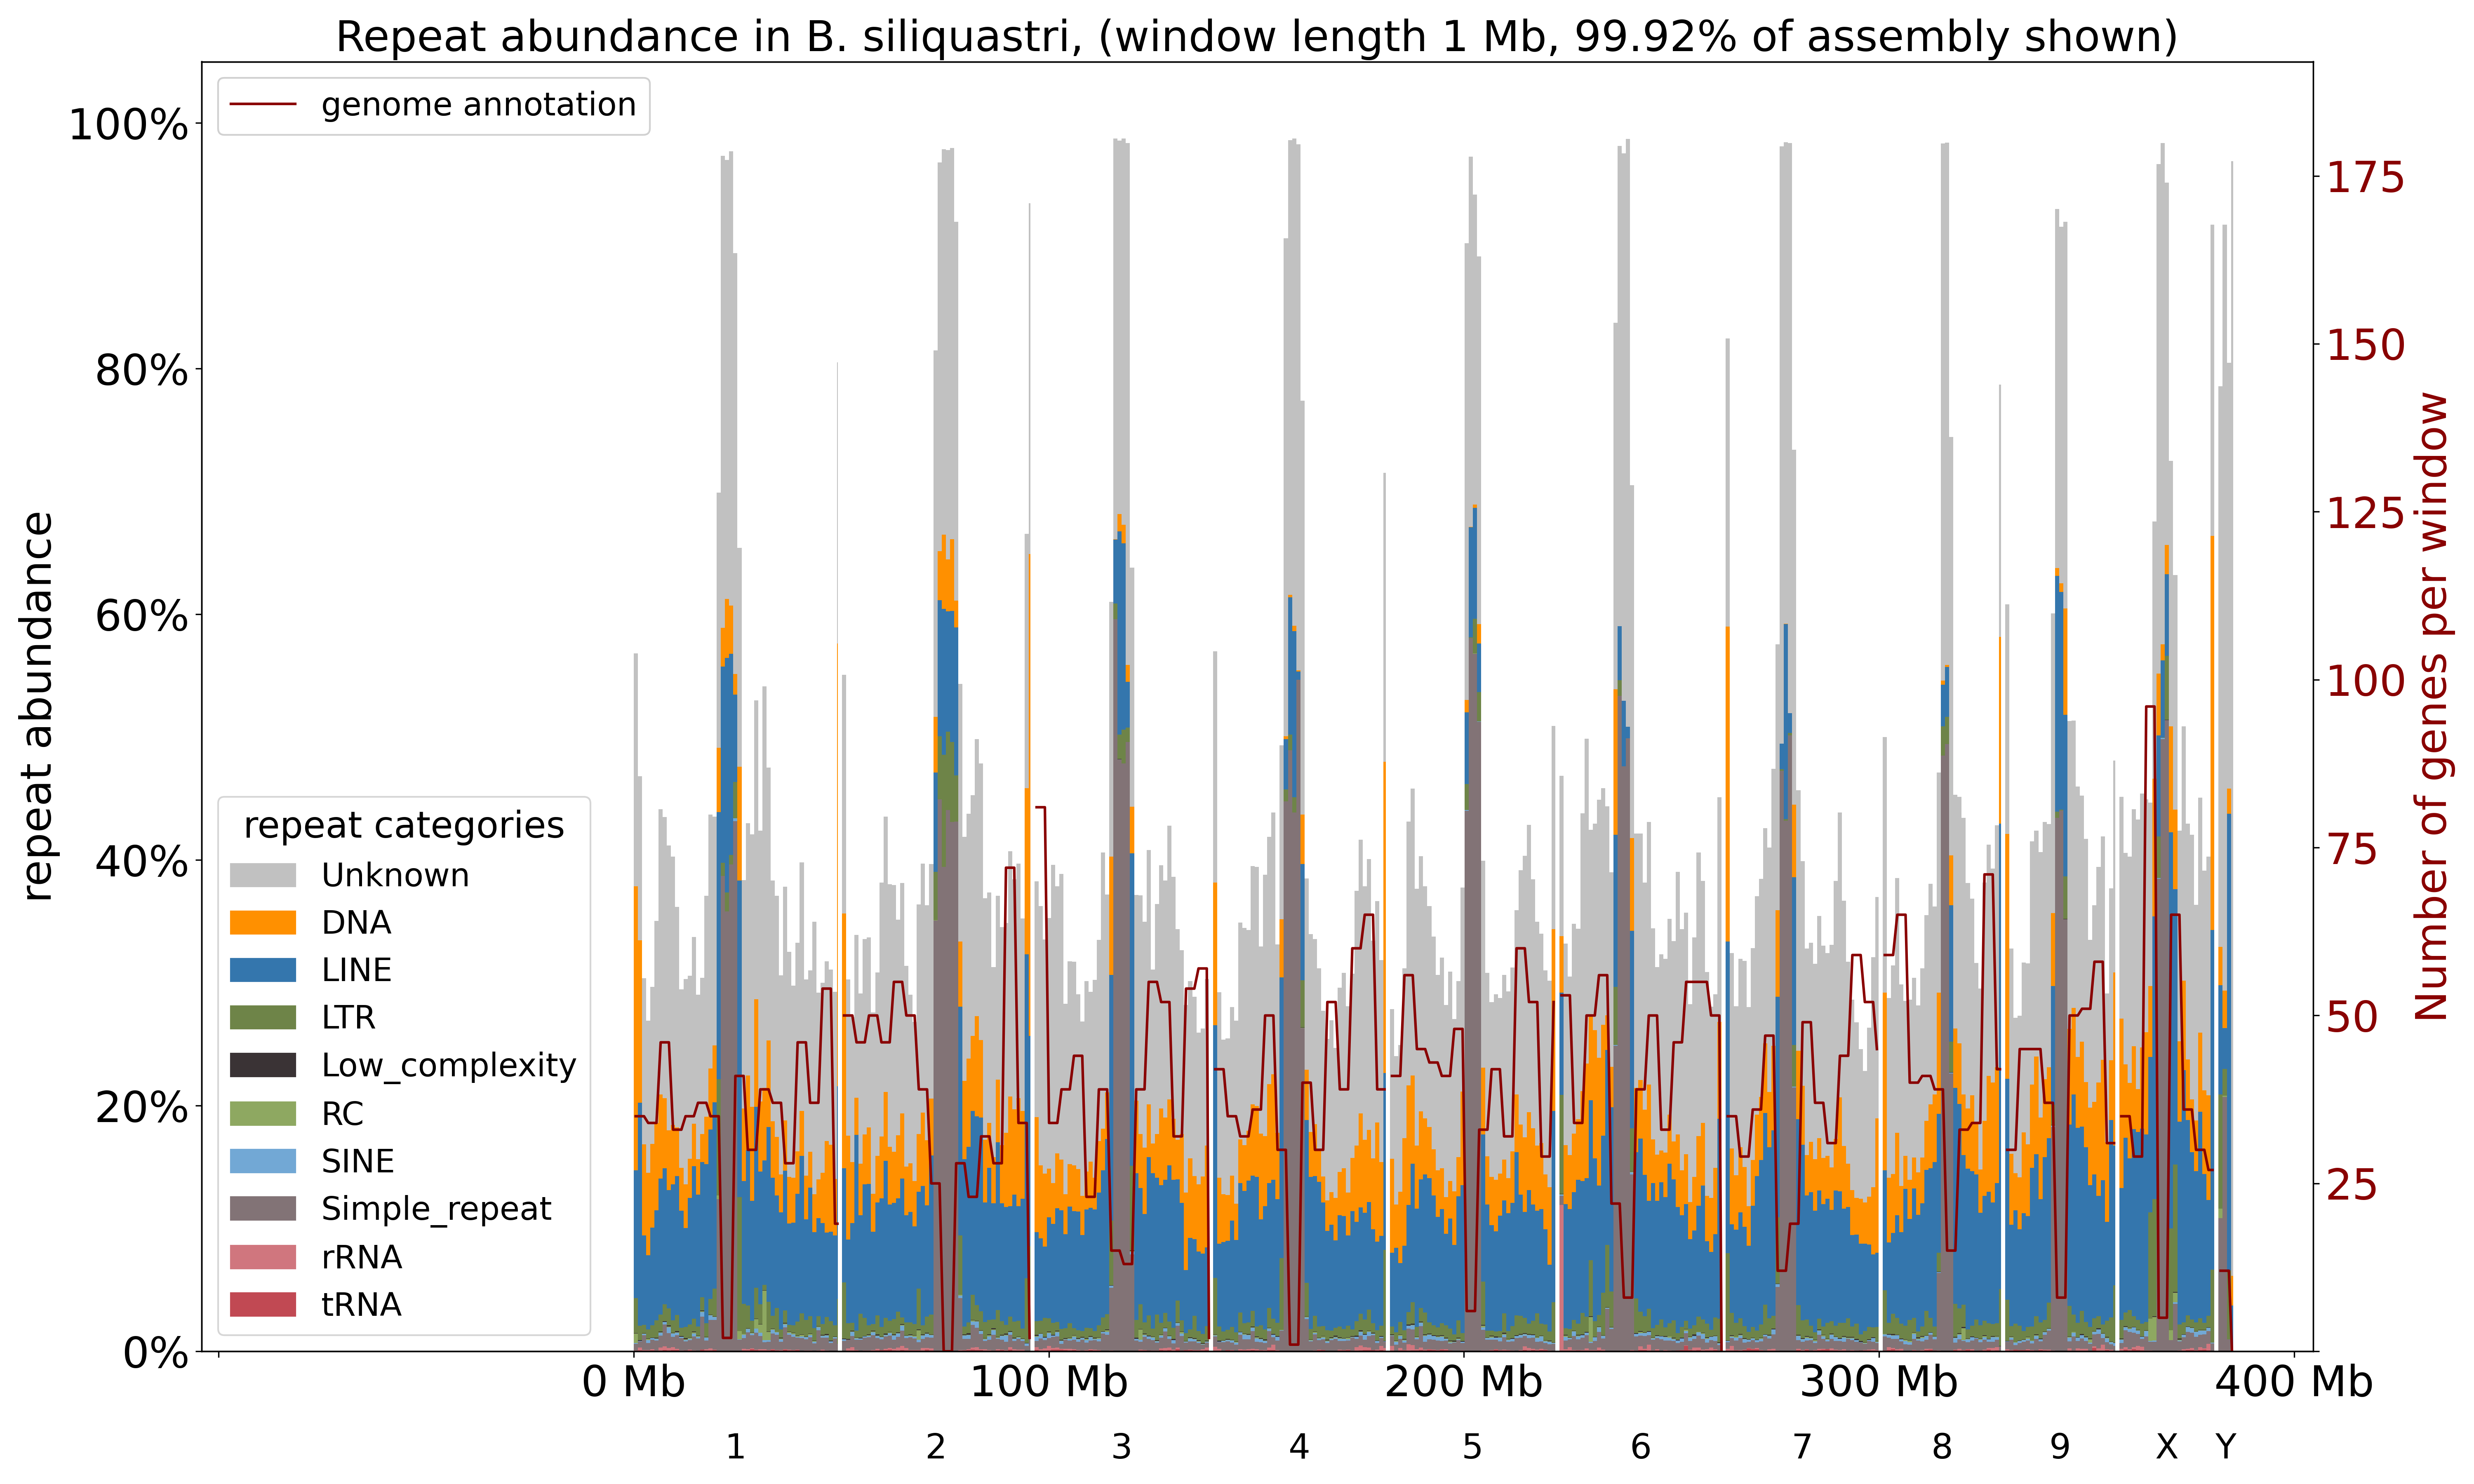
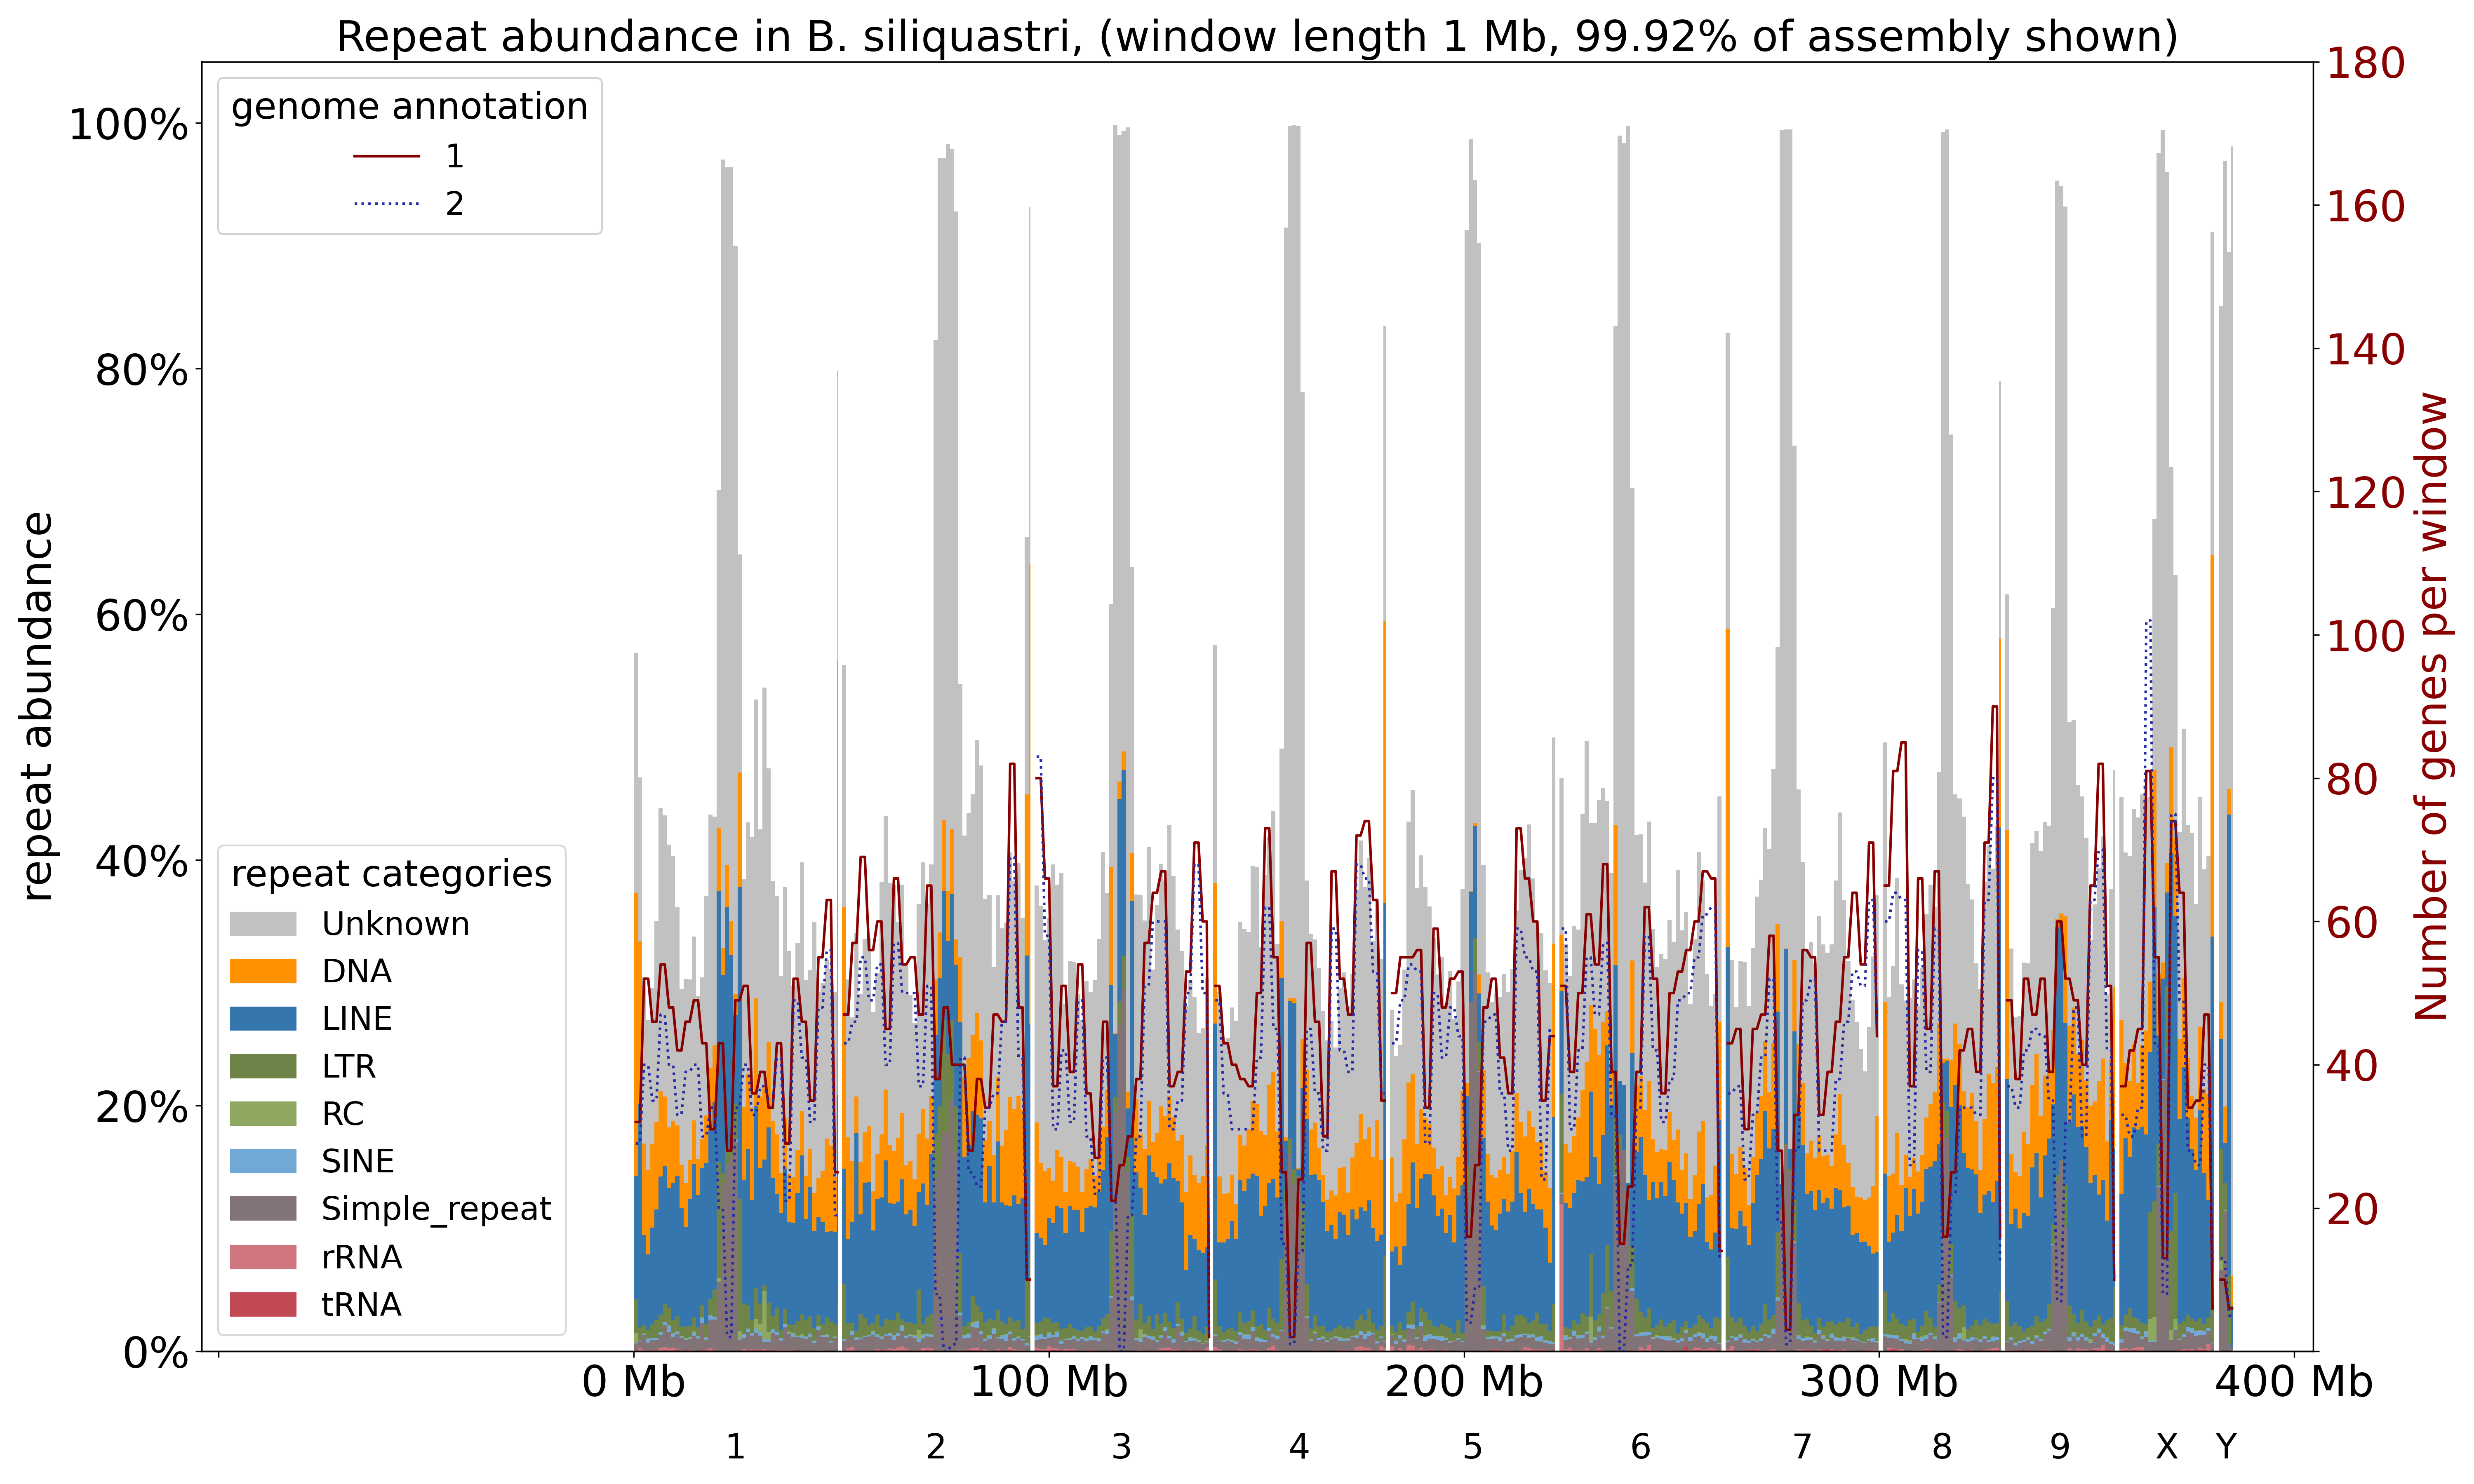
update documentation

diff --git a/index.html b/index.html
@@ -14,7 +14,7 @@ body {
   line-height: 1.5;
   color: #24292f;
 }
-h1, h2, h3, h4, h5, h6 { margin-top: 1.6em; }
+h1, h2, h3, h4, h5, h6 { margin-top: 0.25em; }
 h1 { padding-bottom: .3em; }
 h2 { padding-bottom: .3em; } /* border-bottom: 1px solid #d0d7de; */
 code {
@@ -26,7 +26,7 @@ code {
 }
 pre {
   background: #f6f8fa;
-  padding: 1em;
+  padding: 0.25em;
   border-radius: 6px;
   overflow-x: auto;
 }
@@ -39,6 +39,22 @@ details { margin: 0.8em 0; }
 summary { cursor: pointer; }
 iframe { border: 1px solid #d0d7de; border-radius: 4px; }
 a { color: #343f4d; }
+
+ul {
+  /* user-agent styles */
+  display: block;
+  list-style-type: disc;
+  margin-block-start: 0em;
+  margin-block-end: 0em;
+  padding-inline-start: 40px;
+}
+ol {
+  /* user-agent styles */
+  display: block;
+  margin-block-start: 0em;
+  margin-block-end: 0em;
+  padding-inline-start: 40px;
+}
 
 </style>
 <style>
@@ -117,7 +133,8 @@ a { color: #343f4d; }
 }
 #header-image{
     grid-area: header-image;
-    height: 12em
+    height: 12em;
+    background-color: #C2C8D6;
 }
 .center-content{
     display: grid;
@@ -148,7 +165,7 @@ a { color: #343f4d; }
     
 }
 h1{
-    padding-top:1.5em;
+    padding-top:0.5em;
     padding-bottom:0.5em
 }
 h2{
@@ -235,14 +252,19 @@ document.addEventListener("DOMContentLoaded", function () {
       });
     }
 </script>
+<script type="module">
+    import mermaid from 'https://cdn.jsdelivr.net/npm/mermaid@11/dist/mermaid.esm.min.mjs';
+    mermaid.initialize({ startOnLoad: true });
+</script>    
 
 
 </head>
 
 <body>
     <div id="outer-box">
-        <div id="header-image" class="center-content">
-            <h1>ReVis: (Re)peat (Vis)ualizer</h1>
+        <div id="header-image">
+            <h1 style="margin-top: 0em;font-size: 400%;padding-bottom: 0em;"  class="center-content">ReVis</h1>
+            <p style="font-size: 175%;"  class="center-content"><b>(Re)peat (Vis)ualizer</b></p>
         </div>
 
         <div id="sidebar-contents">
@@ -275,10 +297,231 @@ document.addEventListener("DOMContentLoaded", function () {
             </details>
             
             <p>
-                I suggest creating a new python virtual environment (this works similarly to conda) and installing the dependencies manually. 
+                If you are installing several dependencies manually, I suggest creating a new python virtual environment (this works similarly to conda). 
                 See tutorial <a href="https://www.w3schools.com/python/python_virtualenv.asp">here</a>.
             </p>
+
+            <h1>Summary</h1>
+
+            <p>
+                ReVis has two different run modes, a genome-wide mode that is purely for visualizing repeat abundance in a histogram across scaffolds, 
+                and a gene surroundings mode that includes statistical analysis to compare repeat abundance in the surroundings of two sets of genes.
+            </p>
+
+            <div class="tab">
+                <button class="tablinks" onclick="openTab(event, 'summary_genome_wide')">Genome-wide mode</button>
+                <button class="tablinks" onclick="openTab(event, 'summary_gene_surroundings')">Gene surroundings mode</button>
+            </div>
+
+            <div id="summary_genome_wide" class="tabcontent">
+                <p style="margin-top: .5em">
+                    A genome-wide stacked histogram showing repeat abundance as annotated by Repeatmasker. Optionally, one or two gene annotations of the same
+                    assembly can be included to show the gene density in the same windows.
+                </p>
+                <p>
+                    <img loading="lazy" src="example_data/repeat_abundance_with_gene_numbers_in_B_siliquastri.png" width="65%" />
+                </p>
+            </div>
             
+            <div id="summary_gene_surroundings" class="tabcontent">
+                <p style="margin-top: .5em">
+                    The user can provide a set of foreground and background gene IDs and an interval length in the transcript-surroundings mode. 
+                    The cumulative abundance of each repeat category is plotted for both foreground and background set for individual bases, not averaged over windows, 
+                    and statistical analysis is performed (see details below).
+                </p>
+                <p>
+                    <img loading="lazy" src="example_data/B_siliquastri_cumulative_repeat_presence_around_transcripts.png" width="65%" />
+                    <img loading="lazy" src="example_data/B_siliquastri_wilcoxon_summary.png" width="34%" />
+                </p>
+            </div>
+
+            <h1>Quick start</h1>
+
+
+            <div class="tab">
+                <button class="tablinks" onclick="openTab(event, 'quick_start_genome_wide')">Genome-wide mode</button>
+                <button class="tablinks" onclick="openTab(event, 'quick_start_gene_surroundings')">Gene surroundings mode</button>
+            </div>
+
+            <div id="quick_start_genome_wide" class="tabcontent">
+                <p style="margin-top: .5em">
+                    see all possible options with the <code>python3 ReVis.py -h</code> flag or at the end of this documentation.
+                </p>
+                <pre>
+                    <code>
+python3 ReVis.py \
+    --masker_outfile your_assembly.fna.out \
+    --masker_out_gff your_assembly.fna.out.gff \
+    --out_dir ./ \
+    --species_name Y_species \
+    --window_length 1e6 \
+    --plot_overlap_filtered \
+    --verbose \
+    --plot</code>
+                </pre>
+                <p style="margin-top: 1em"><b>Input files</b> (file extensions taken from repeatmasker output defaults)</p>
+                <ul>
+                    <li>repeat annotations: <code>your_assembly.fna.out</code></li>
+                    <li>scaffold sizes: <code>your_assembly.fna.out.gff</code> (contains ##sequence-region comments with the contig name and length, so you don't need to give an assembly)</li>
+                    <li>Optional input files (not included above):
+                        <ul>
+                            <li><code>assembly_gene_annotation_1.gff</code></li>
+                            <li><code>assembly_gene_annotation_2.gff</code></li>
+                        </ul>
+                    </li>
+                </ul>
+                <p style="margin-top: 1em"><b>Parameters</b></p>
+                <ul>
+                    <li>Species name (<code>str</code> formatted like D_melanogaster for Drosophila melanogaster)</li>
+                    <li>window length (<code>int</code> basepairs, can be in scientific notation like 1e6 for 1Mb)</li>
+                    <li><code>plot</code> or <code>table</code> mode</li>
+                </ul>
+
+                <details>
+                    <summary>toggle down for flowchart of how it works</summary>
+                
+                    <pre class="mermaid">
+                        graph TD;
+                        infile_out(your_assembly.fna.out);
+                        infile_out -- parsing --> rep_annot{{Class: repeat annotation}};
+
+                        infile_annot(annotation.gff);
+                        infile_annot -. parsing .-> gene_annot{{Class: gene annotation}};
+                        
+                        rep_annot --> overlap_filt{{overlap filtered repeat annotation}};
+                        overlap_filt --> win_ab{{window abundances by category}};
+                        rep_annot -. optional .-> win_ab
+                        
+                        rep_annot --> tr_count(transcript counts foreground and background);
+                        tr_count --> win_prop{{window abundances in percent by category}}
+                        win_ab --> win_prop
+                        
+                        infile_gff(your_assembly.fna.out.gff);
+                        infile_gff --> contig_coords(scaffold lengths);
+                        
+                        win_prop --> plot([Plot stacked histogram])
+                        contig_coords --> plot
+                        gene_annot -. optional .-> plot
+                    </pre>
+                
+                </details>
+
+            </div>
+            
+
+            <div id="quick_start_gene_surroundings" class="tabcontent">
+                <p style="margin-top: .5em">
+                    see all possible options with the <code>python3 ReVis_transcript_surroundings.py -h</code> flag or at the end of this documentation.
+                </p>
+                <p>
+                    The computation here is split into two parts because part 1 can take very long:
+                </p>
+                <ol style="margin-bottom: 1em">
+                    <li>compute tables of by-base transcript presence counts for each repeat category </li>
+                    <li>make plots and compute statistical analysis based on tables </li>
+                </ol>
+                <div class="tab">
+                    <button class="tablinks" onclick="openTab(event, 'quickstart_gene_surroundings_tables')">1. Compute tables and plots from scratch</button>
+                    <button class="tablinks" onclick="openTab(event, 'quickstart_gene_surroundings_plots')">2. Make plots from tables</button>
+                    <button class="tablinks" onclick="openTab(event, 'quickstart_gene_surroundings_cafe')">(compute from Orthofinder and CAFE5)</button>
+                </div>
+    
+                <div id="quickstart_gene_surroundings_tables" class="tabcontent">
+                    <p style="margin-top: .5em">
+                        See the files in <code>example_data</code> to check formatting requirements for the transcript ID lists.
+                    </p>
+                    <pre>
+                        <code>
+    python3 ReVis_transcript_surroundings.py \
+        --compute_tables_from_list \
+        --out_dir ../../example_data \
+        --masker_outfile ../../example_data/bruchidius_siliquastri_repeats.fna.out \
+        --annotation_gff ../../example_data/bruchidius_siliquastri.gff \
+        --all_list ../../example_data/overlap_all_transcripts_B_siliquastri.txt \
+        --sig_list ../../example_data/overlap_sig_transcripts_B_siliquastri.txt \
+        --species_name B_siliquastri \
+        --polreg_fourier_denoise \
+        --bp 500 \
+        --verbose</code>
+                    </pre>
+                </div>
+                
+                <div id="quickstart_gene_surroundings_plots" class="tabcontent">
+                    <p style="margin-top: .5em">
+                        If you have generated the tables in a previous run
+                    </p>
+                    <pre>
+                        <code>
+    python3 ReVis_transcript_surroundings.py \
+        --plot \
+        --out_dir ../../example_data \
+        --all_before_table ../../example_data/B_siliquastri_cumulative_repeats_before_all_transcripts.txt \
+        --sig_before_table ../../example_data/B_siliquastri_cumulative_repeats_before_sig_transcripts_90th_GF_size_percentile.txt \
+        --all_after_table ../../example_data/B_siliquastri_cumulative_repeats_after_all_transcripts.txt \
+        --sig_after_table ../../example_data/B_siliquastri_cumulative_repeats_after_sig_transcripts_90th_GF_size_percentile.txt \
+        --num_transcripts ../../example_data/B_siliquastri_transcript_numbers.txt \
+        --species_name B_siliquastri \ 
+        --polreg_fourier_denoise \
+        --verbose</code>
+                    </pre>
+                </div>
+
+                <div id="quickstart_gene_surroundings_cafe" class="tabcontent">
+                    <p style="margin-top: .5em">
+                        The original purpose of this tool was to look at transcripts that are in significantly rapidly <i>expanding</i> gene families according to CAFE5.
+                        When you have the same pipeline, you can provide these output files and the software will infer foreground and background transcript ID lists from 
+                        that automatically
+                    </p>
+                
+                    <pre>
+                        <code>
+    python3 ReVis_transcript_surroundings.py \
+        --compute_tables_from_OG \
+        --out_dir ../../example_data \
+        --masker_outfile ../../example_data/bruchidius_siliquastri_repeats.fna.out \
+        --annotation_gff ../../example_data/bruchidius_siliquastri.gff \
+        --orthogroups ../../example_data/N0.tsv \
+        --CAFE5_results ../../example_data/CAFE5_Base_family_results.txt \
+        --species_name B_siliquastri \
+        --polreg_fourier_denoise \
+        --bp 500 --GF_size_percentile 90 --verbose</code>
+                    </pre>
+                    <p><code>--GF_size_percentile</code> ensures that the only transcript IDs are in truly expanding gene families, not just gene families that are in significantly rapidly 
+                    evolving orthogroups accodring to CAFE, because this might include orthogroups that are expanding in other species only and not the one of interest here.</p>
+                </div>
+            </div>
+
+
+
+            <h1>Genome-wide mode</h1>
+
+            <p>
+                download the latest release and just run ReVis.py like a normal python script. 
+                The dependencies are listed in requirements.txt, they are only commonly used python packages and can be installed with pip.
+            </p>
+
+            <p>
+                The script is using the output files generated by repeatmasker, the masked assembly, and optionally one or two genome annotations based on the same assembly (contig names have to match!). 
+                Results can be plotted in a stacked histogram (plot mode) or returned as tsv files (table mode, requires the annotation!).
+            </p>
+                
+            <p>
+                Contigs are sorted by size decreasing in the plot.
+            </p>
+
+
+
+
+            <h1>Troubleshooting</h1>
+
+            <ul>
+                <li><b>If annotation parsing does not work:</b>
+                <p>
+                    Potentially there is something wrong with the nested feature IDs in the gff, try to use <a href="https://agat.readthedocs.io/en/latest/tools/agat_sq_manage_IDs.html">agat_sq_manage_IDs.pl</a>
+                    to make a version that forces a correct feature nestedness. Mind that this 
+                </p>
+                </li>
+            </ul>
 
             <h1 id="Citation">Citation</h1>
             <p>Please cite Trabert <i>et al.</i> 2026 with this DOI: <code>https://doi.org/10.5281/zenodo.18669483</code>. Thank you! <a href="https://doi.org/10.5281/zenodo.18669483">Link</a> to zenodo.</p> 